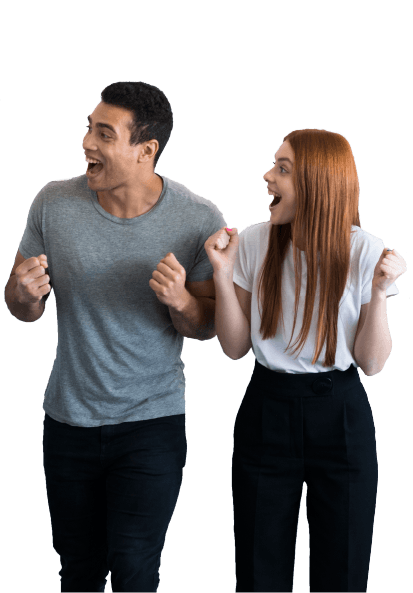
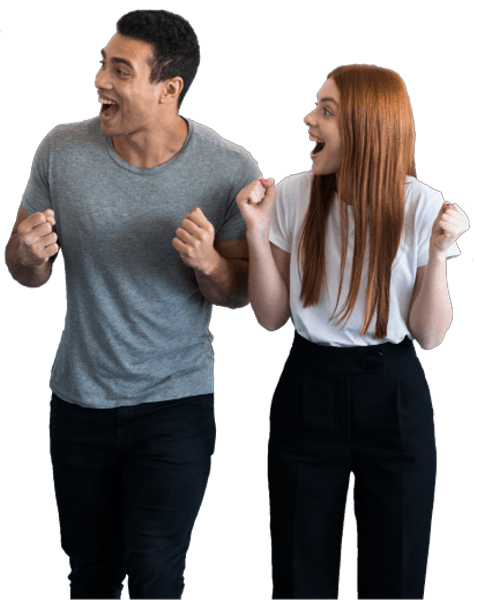
6

diff --git a/Aliados.html b/Aliados.html
@@ -149,7 +149,7 @@
                 class="btn-stc"
                 data-aos="fade-up"
                 data-aos-duration="1000"
-              > ¡Empieza ahora!
+              >¡Empieza ahora!
               </button>
             </form>
           </div>
@@ -248,11 +248,11 @@
         </div>
       </div>
 
-      <!------------------------------------------------Banner---------------------------------------------------->
+      <!------------------------------------------------Banner-grupo---------------------------------------------------->
 
       <div class="bg-image-2">
         <div class="banner row m-0">
-          <div class="persona-1 col-sm" id="Persona-2">
+          <div class="grupo-1 col-sm-4" id="grupo-2">
             <img
               src="Img/Empresas/Grupo2-8.png"
               data-aos="fade-right"
@@ -288,7 +288,7 @@
               </form>
             </div>
           </div>
-          <div class="persona-1 col-sm" id="Persona-2">
+          <div class="grupo-1 col-sm-4" id="grupo-2">
             <img
               src="Img/Empresas/Grupo3-8.png"
               data-aos="fade-right"
@@ -309,8 +309,7 @@
           </h2>
         </div>
         <hr />
-        <div class="afiliacion col">
-          <div class="row">
+        <div class="afiliacion">
             <div
               class="afiliacion-bg1 col"
               data-aos="fade-right"
@@ -346,9 +345,9 @@
                 </div>
               </div>
             </div>
-          </div>
+          
 
-          <div class="row">
+        
             <div
               class="afiliacion-bg3 col"
               data-aos="fade-right"
@@ -386,7 +385,7 @@
                 </div>
               </div>
             </div>
-          </div>
+          
         </div>
       </div>
 

diff --git a/Styles/styles.css b/Styles/styles.css
@@ -660,11 +660,11 @@ label {
   padding: 0% 10% 6% 10%;
 }
 .afiliacion-icon img {
-  width: 15%;
+  width: 150%;
   filter: drop-shadow(0px 0px 3px #4d4d4d);
   left: 10%;
-  position: absolute;
   z-index: 4;
+  justify-items: center;
 }
 
 .afiliacion-2 {
@@ -780,3 +780,27 @@ label {
   line-height: 130%;
   font-size: 1rem;
 }
+
+/*============================================AFILIACIÓN=========================================*/
+
+.bg-image-2 {
+  background: url("/Img/Fondos/Ladrillos.png");
+  background-repeat: no-repeat;
+  background-position: center;
+  background-size: cover;
+  height: 100vh;
+}
+
+.banner {
+  display: flex;
+  justify-content: center;
+  align-items: end;
+  padding: 0% 6% 0% 6%;
+  height: 100%;
+}
+
+.banner .grupo-1 img {
+  width: 100%;
+  align-items: end;
+}
+

diff --git a/Styles/mediaqueries.css b/Styles/mediaqueries.css
@@ -3,6 +3,7 @@
   .slogan-white {
     font-size: 75px;
   }
+
 }
 @media screen and (max-width: 992px) {
   .slogan-green,
@@ -55,6 +56,9 @@
   }
   .header {
     height: 8vh;
+  }
+  #grupo-2 {
+    display: none;
   }
   
 }
